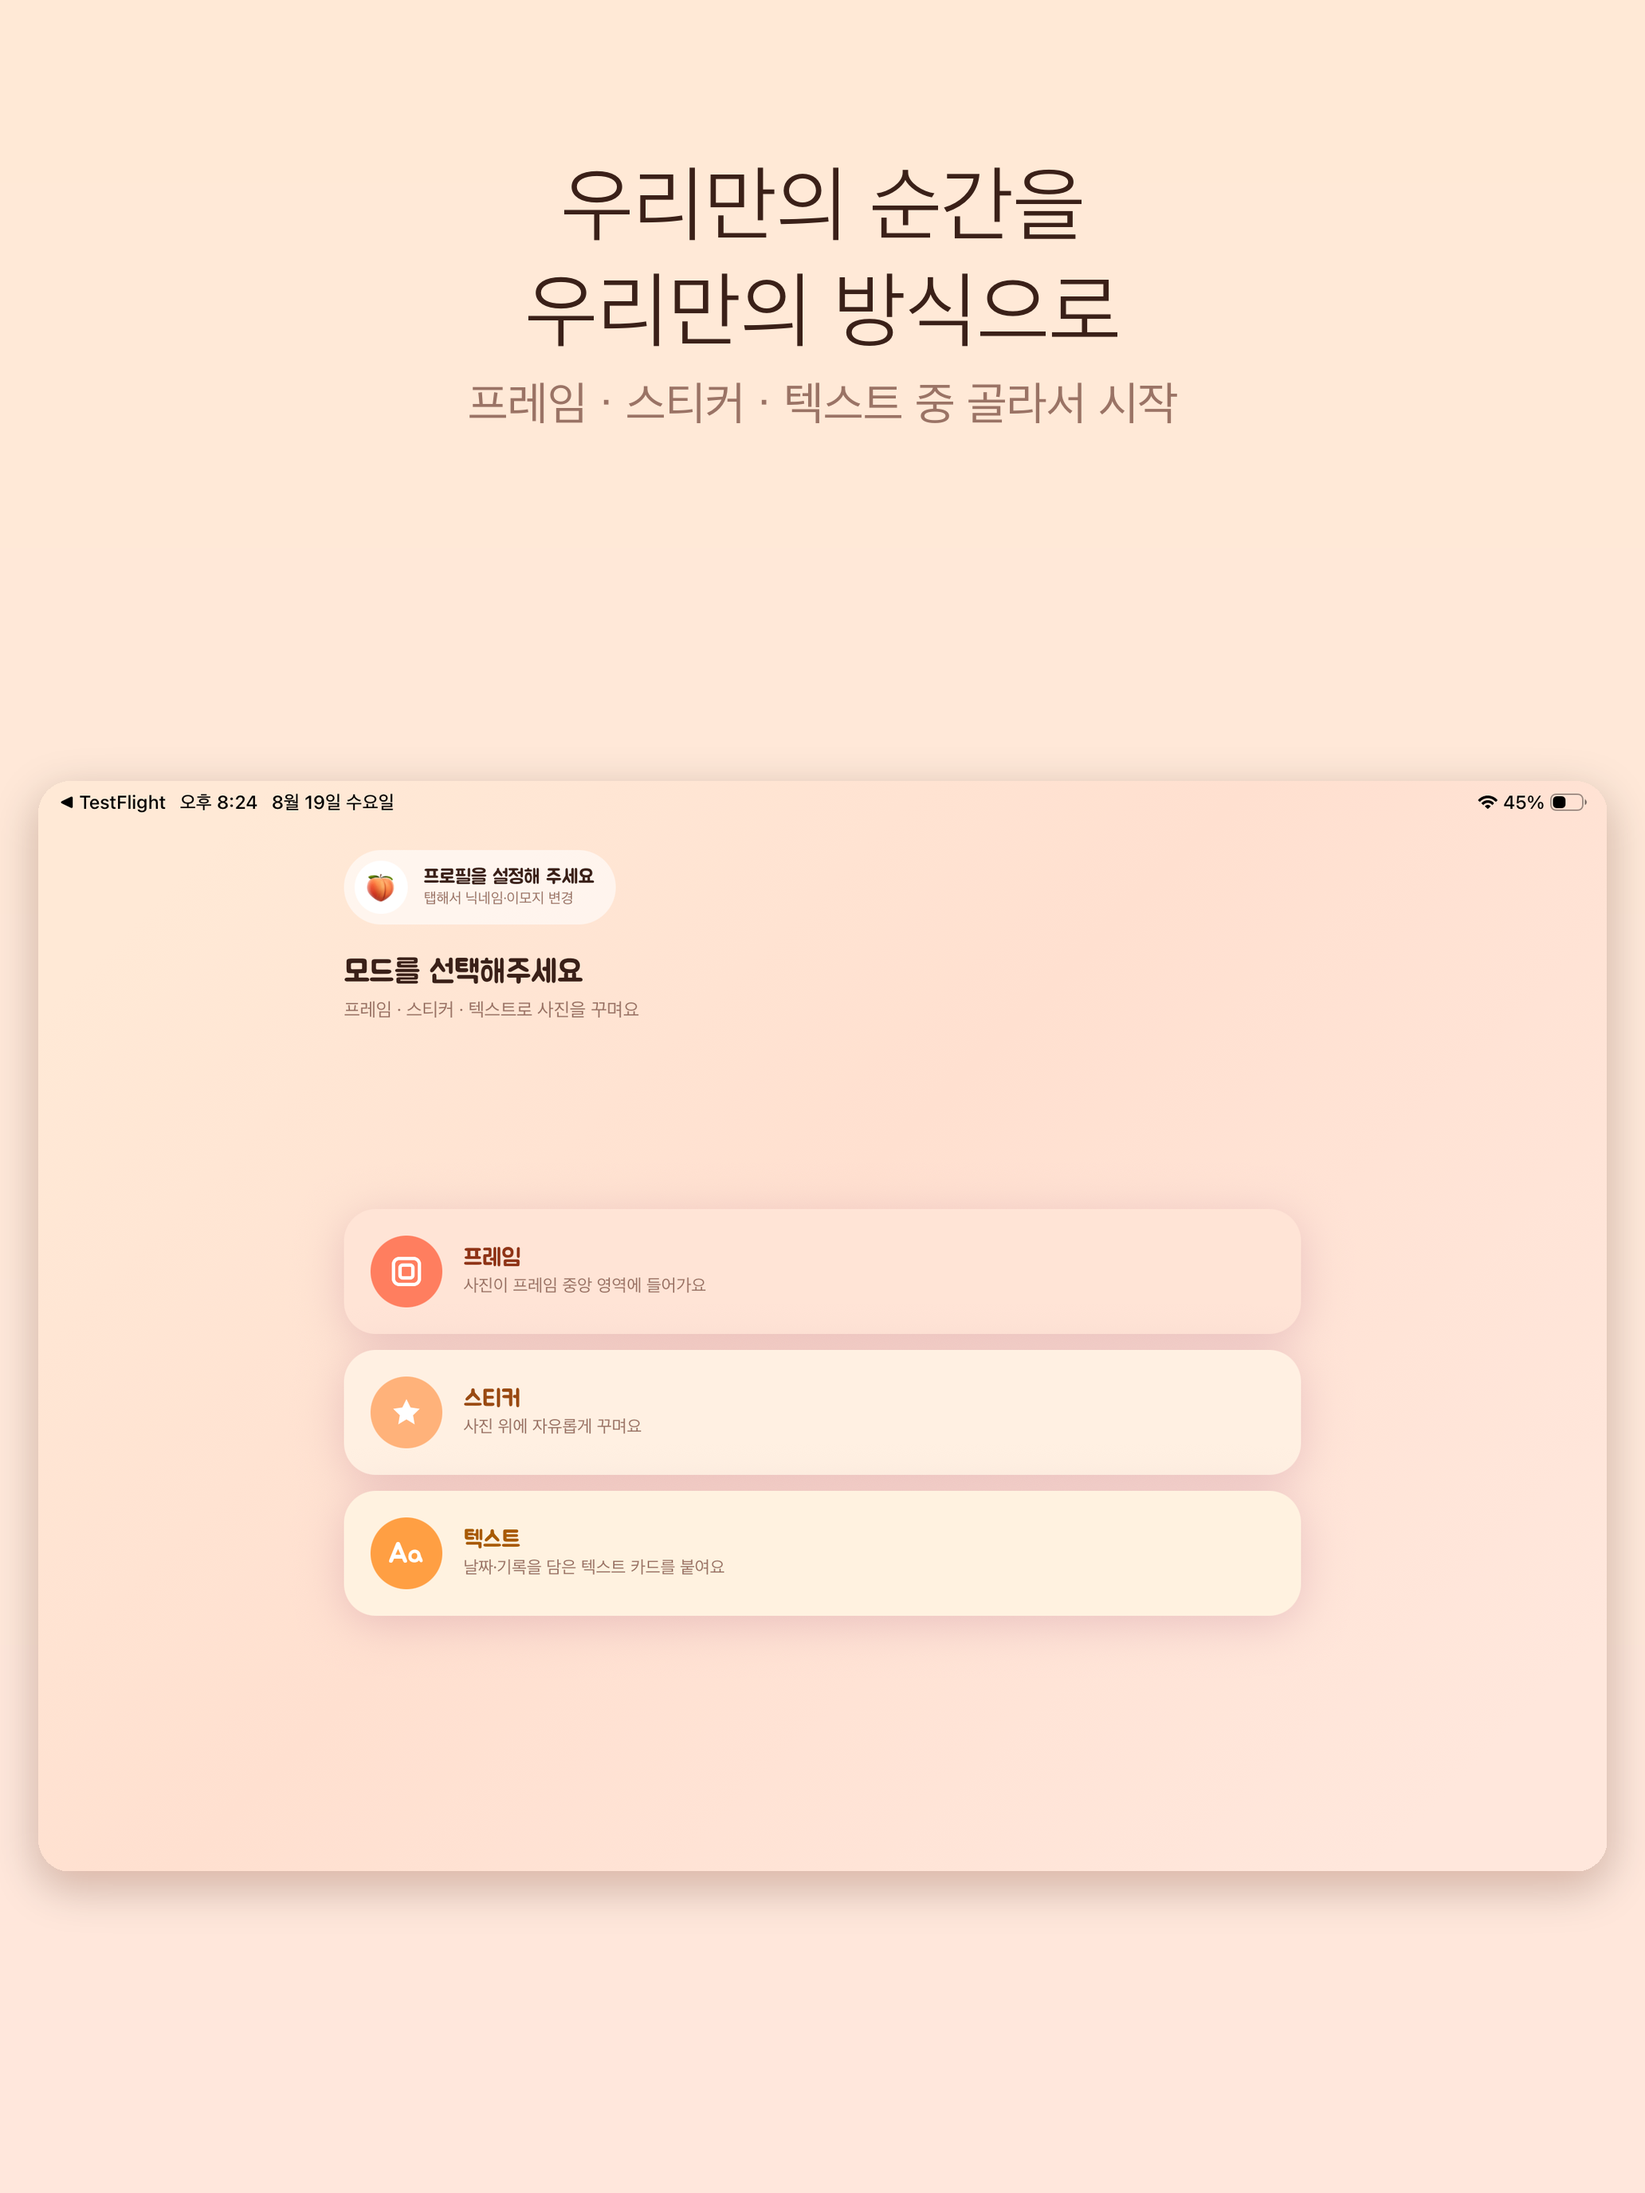
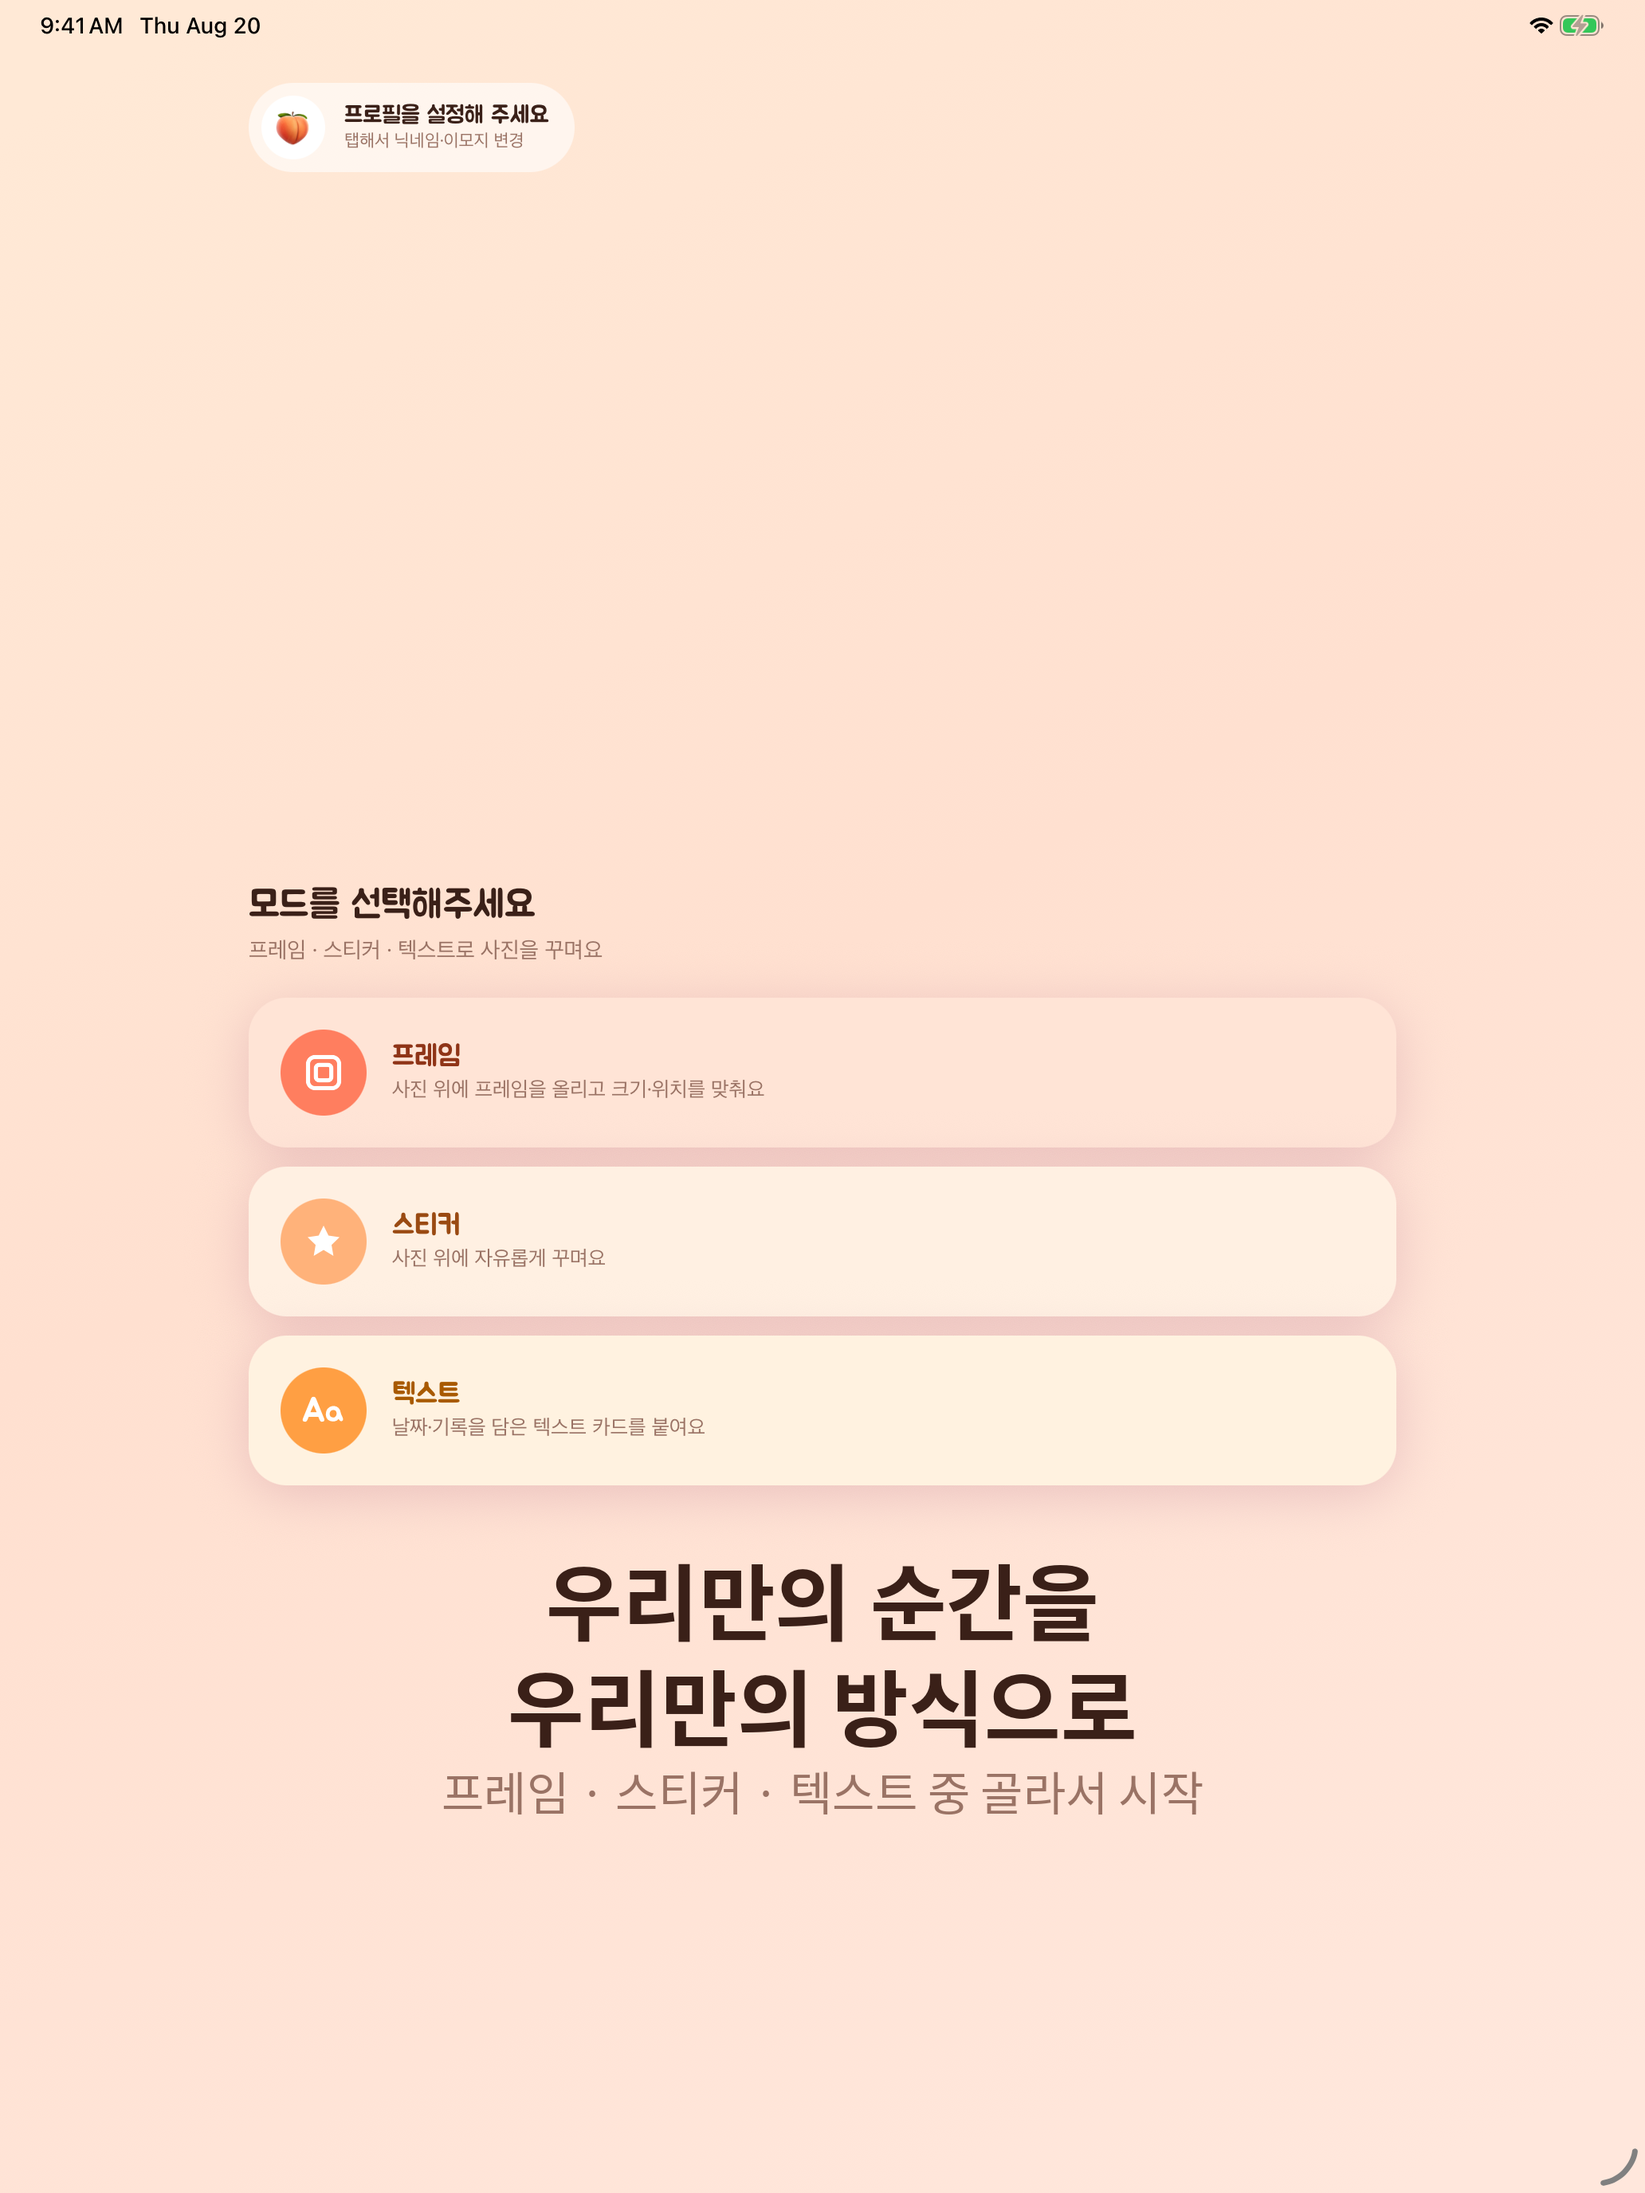
store: App Store 스크린샷 5장 체계로 확장 (iPhone 실기기 · iPad 시뮬레이터)
캡션을 4장에서 5장으로 늘리고 텍스트 카드 화면을 추가한다.
  01-home → 02-select → 03-edit → 04-text(신설) → 05-result
기존 04-result 는 05-result 로 밀었다.

iPhone 은 실기기 캡처(IMG_3613~3617), iPad 는 시뮬레이터 캡처를 쓴다.

compose-store-screenshots.py 는 세 가지를 고친다.

1. 한글 폰트를 macOS 밖에서도 찾는다. 후보가 Apple SD Gothic Neo 뿐이라
   리눅스에서 합성하면 기본 폰트로 떨어져 캡션이 통째로 깨졌다.
   Noto Sans CJK KR 을 후보에 넣고 .ttc 얼굴 인덱스를 명시한다.

2. 캡처의 색공간을 sRGB 로 맞춘다. 아이폰 실기기 캡처에는 Display P3
   프로파일이 박혀 있는데, 무시한 채 쓰면 같은 숫자를 sRGB 로 읽어
   분홍·주황 스티커가 과포화된다. App Store 는 sRGB 를 기대한다.

3. overlay 레이아웃을 더한다. iPad 캡처는 이미 2064x2752 — 규격과 같아서
   기존 inset 으로 넣으면 캡션 자리를 만드느라 화면이 76% 로 줄고 앱
   글씨가 읽히지 않았다. 원본이 규격 크기면 화면을 1:1 로 두고 캡션만
   얹는다. 웨피캠 iPad 레이아웃이 5장 모두 비워 두는 y 1900~2420 띠를
   쓰고, 그 띠가 실제로 비어 있는지 확인한 뒤 그린다.

diff --git a/scripts/compose-store-screenshots.py b/scripts/compose-store-screenshots.py
@@ -46,9 +46,11 @@ from dataclasses import dataclass
 from pathlib import Path
 
 try:
-    from PIL import Image, ImageDraw, ImageFilter, ImageFont
+    from PIL import Image, ImageCms, ImageDraw, ImageFilter, ImageFont
 except ImportError:
     sys.exit("Pillow 가 필요합니다:  python3 -m pip install pillow")
+
+import io
 
 ROOT = Path(__file__).resolve().parent.parent
 
@@ -78,34 +80,76 @@ class Spec:
     side_pad: int
     radius: int
     palette: str
+    # 원본이 이미 규격 크기일 때 캡션을 얹을 y 좌표. None 이면 overlay 를 쓰지 않는다.
+    overlay_caption_y: int | None = None
 
 
 SPECS = {
     "iphone": Spec("iphone", 1320, 2868, "APP_IPHONE_67",
                    caption_size=76, sub_size=44, top_pad=150, gap=64, side_pad=96,
                    radius=56, palette="purple"),
-    # iPad 원본은 가로(landscape) 로 찍혔는데 규격 캔버스는 세로다. 좌우 여백을 줄여
-    # 화면을 최대한 크게 넣고, 남는 세로 공간은 compose() 가 위아래로 나눠 준다.
+    # iPad 캡처는 이미 2064x2752 (규격과 동일) 라 inset 으로 넣으면 76% 로 줄어
+    # 앱 글씨가 읽히지 않는다. 대신 overlay 로 화면을 1:1 로 두고, 웨피캠 iPad
+    # 레이아웃이 5장 모두 비워 두는 y 1900~2420 띠에 캡션을 얹는다.
     "ipad": Spec("ipad", 2064, 2752, "APP_IPAD_PRO_3GEN_129",
                  caption_size=104, sub_size=58, top_pad=200, gap=72, side_pad=48,
-                 radius=40, palette="peach"),
+                 radius=40, palette="peach", overlay_caption_y=1930),
 }
+
+
+# 한글이 나오는 폰트. (경로, regular index, bold index) — .ttc 는 얼굴이 여럿이라
+# 인덱스를 지정해야 한다. macOS 는 Apple SD Gothic Neo, 리눅스/CI 는 Noto Sans CJK KR.
+# 어느 장비에서 합성해도 같은 결과가 나오도록 두 계열을 모두 둔다.
+FONT_CANDIDATES = [
+    ("/System/Library/Fonts/AppleSDGothicNeo.ttc", 0, 8),
+    ("/System/Library/Fonts/Supplemental/AppleGothic.ttf", 0, 0),
+    ("/Library/Fonts/AppleGothic.ttf", 0, 0),
+    ("/usr/share/fonts/opentype/noto/NotoSansCJK-Bold.ttc", 1, 1),
+    ("/usr/share/fonts/opentype/noto/NotoSansCJK-Regular.ttc", 1, 1),
+]
 
 
 def load_font(size: int, bold: bool = False) -> ImageFont.FreeTypeFont:
     """한글이 나오는 시스템 폰트를 찾는다. 없으면 기본 폰트로 떨어진다."""
-    candidates = [
-        "/System/Library/Fonts/AppleSDGothicNeo.ttc",
-        "/System/Library/Fonts/Supplemental/AppleGothic.ttf",
-        "/Library/Fonts/AppleGothic.ttf",
-    ]
-    for path in candidates:
+    # Bold 를 요청했으면 Bold 파일을 먼저, Regular 면 Regular 파일을 먼저 본다.
+    ordered = sorted(
+        FONT_CANDIDATES,
+        key=lambda c: ("Bold" in c[0]) != bold,
+    )
+    for path, reg_idx, bold_idx in ordered:
         if Path(path).exists():
             try:
-                return ImageFont.truetype(path, size, index=(8 if bold and path.endswith(".ttc") else 0))
+                return ImageFont.truetype(path, size, index=(bold_idx if bold else reg_idx))
             except OSError:
                 continue
+    print("  ! 한글 폰트를 찾지 못해 기본 폰트로 떨어집니다 — 캡션이 깨질 수 있습니다.")
     return ImageFont.load_default()
+
+
+SRGB = ImageCms.createProfile("sRGB")
+
+
+def open_srgb(path: Path) -> Image.Image:
+    """캡처를 sRGB RGB 로 연다.
+
+    아이폰 실기기 캡처에는 Display P3 프로파일이 박혀 있다. 프로파일을 무시한 채
+    그대로 쓰면 같은 숫자를 sRGB 로 읽어 색이 과포화된다(특히 분홍·주황 스티커).
+    App Store 는 sRGB 를 기대하므로 여기서 한 번 변환해 둔다.
+    """
+    img = Image.open(path)
+    icc = img.info.get("icc_profile")
+    if icc:
+        try:
+            src = ImageCms.ImageCmsProfile(io.BytesIO(icc))
+            desc = ImageCms.getProfileDescription(src).strip()
+            if "sRGB" not in desc:
+                img = ImageCms.profileToProfile(
+                    img.convert("RGB"), src, SRGB, outputMode="RGB", renderingIntent=0
+                )
+                print(f"    · 색공간 변환: {desc} → sRGB")
+        except (ImageCms.PyCMSError, OSError) as e:
+            print(f"    ! ICC 변환 실패({e}) — 원본 그대로 사용합니다.")
+    return img.convert("RGB")
 
 
 def gradient_background(spec: Spec) -> Image.Image:
@@ -147,16 +191,12 @@ def rounded(img: Image.Image, radius: int) -> Image.Image:
     return out
 
 
-def compose(src: Path, dest: Path, spec: Spec, caption: str, sub: str, shadow: bool) -> None:
-    pal = PALETTES[spec.palette]
-    canvas = gradient_background(spec).convert("RGBA")
-    draw = ImageDraw.Draw(canvas)
-
+def draw_caption_block(draw, spec: Spec, pal: dict, caption: str, sub: str, y: int) -> int:
+    """캡션 + 서브를 가운데 정렬로 그리고, 블록이 끝난 y 를 돌려준다."""
     title_font = load_font(spec.caption_size, bold=True)
     sub_font = load_font(spec.sub_size)
     text_width = spec.width - spec.side_pad * 2
 
-    y = spec.top_pad
     for line in wrap(draw, caption, title_font, text_width):
         w = draw.textlength(line, font=title_font)
         draw.text(((spec.width - w) / 2, y), line, font=title_font, fill=pal["text_main"])
@@ -168,13 +208,50 @@ def compose(src: Path, dest: Path, spec: Spec, caption: str, sub: str, shadow: b
             w = draw.textlength(line, font=sub_font)
             draw.text(((spec.width - w) / 2, y), line, font=sub_font, fill=pal["text_sub"])
             y += int(spec.sub_size * 1.35)
+    return y
+
+
+def region_is_flat(img: Image.Image, top: int, bottom: int, tol: int = 14) -> bool:
+    """그 띠가 앱 배경만 있는 빈 영역인지 — 캡션을 얹어도 UI 를 가리지 않는지 본다."""
+    band = img.crop((0, max(0, top), img.width, min(img.height, bottom)))
+    return all(mx - mn <= tol for mn, mx in band.getextrema())
+
+
+def compose_overlay(src: Path, dest: Path, spec: Spec, caption: str, sub: str) -> None:
+    """원본이 이미 규격 크기일 때: 축소하지 않고 캡션만 빈 띠에 얹는다.
+
+    inset 으로 넣으면 화면이 76% 로 줄어 앱 글씨가 읽히지 않는다. overlay 는 UI 를
+    1:1 로 유지하므로 태블릿 스크린샷에서 훨씬 잘 읽힌다.
+    """
+    pal = PALETTES[spec.palette]
+    canvas = open_srgb(src)
+    draw = ImageDraw.Draw(canvas)
+
+    y0 = spec.overlay_caption_y
+    end = draw_caption_block(draw, spec, pal, caption, sub, y0)
+    if not region_is_flat(Image.open(src).convert("RGB"), y0 - 24, end + 24):
+        print(f"    ! y {y0}~{end} 가 빈 띠가 아닙니다 — 캡션이 UI 를 가릴 수 있습니다.")
+
+    dest.parent.mkdir(parents=True, exist_ok=True)
+    canvas.save(dest, "PNG", optimize=True)
+    out = Image.open(dest)
+    assert out.size == (spec.width, spec.height), f"규격 불일치: {out.size}"
+    print(f"  ✓ {dest.relative_to(ROOT)}  {out.size[0]}x{out.size[1]}  (overlay, 화면 1:1)")
+
+
+def compose(src: Path, dest: Path, spec: Spec, caption: str, sub: str, shadow: bool) -> None:
+    pal = PALETTES[spec.palette]
+    canvas = gradient_background(spec).convert("RGBA")
+    draw = ImageDraw.Draw(canvas)
+
+    y = draw_caption_block(draw, spec, pal, caption, sub, spec.top_pad)
 
     # 기기 화면: 남은 영역에 비율 유지로 최대한 크게
     band_top = y + spec.gap
     bottom_pad = spec.side_pad // 2 if spec.side_pad > 96 else 48
     avail_w = spec.width - spec.side_pad * 2
     avail_h = spec.height - band_top - bottom_pad
-    shot = Image.open(src).convert("RGB")
+    shot = open_srgb(src)
     scale = min(avail_w / shot.width, avail_h / shot.height)
     size = (max(1, round(shot.width * scale)), max(1, round(shot.height * scale)))
     shot = rounded(shot.resize(size, Image.LANCZOS), spec.radius)
@@ -206,6 +283,8 @@ def main() -> int:
     ap.add_argument("--in", dest="src", default="store/screenshots/raw")
     ap.add_argument("--out", dest="out", default="store/screenshots/composed")
     ap.add_argument("--captions", default="store/screenshot-captions.json")
+    ap.add_argument("--layout", default="auto", choices=["auto", "inset", "overlay"],
+                    help="auto: 원본이 규격 크기면 overlay, 아니면 inset")
     ap.add_argument("--no-shadow", action="store_true")
     ap.add_argument("--list", action="store_true")
     ap.add_argument("--dry-run", action="store_true")
@@ -234,10 +313,21 @@ def main() -> int:
                 missing.append(str(src.relative_to(ROOT)))
                 print(f"  · {c['slug']}: 원본 없음 — 건너뜀")
                 continue
+            # 원본이 이미 규격 크기면 축소 없이 캡션만 얹는다(overlay).
+            use_overlay = (
+                args.layout == "overlay"
+                or (args.layout == "auto"
+                    and spec.overlay_caption_y is not None
+                    and Image.open(src).size == (spec.width, spec.height))
+            )
             if args.dry_run:
-                print(f"  [dry-run] {src.relative_to(ROOT)} → {dest.relative_to(ROOT)}")
+                how = "overlay" if use_overlay else "inset"
+                print(f"  [dry-run] {src.relative_to(ROOT)} → {dest.relative_to(ROOT)}  ({how})")
                 continue
-            compose(src, dest, spec, c["caption"], c.get("sub", ""), not args.no_shadow)
+            if use_overlay:
+                compose_overlay(src, dest, spec, c["caption"], c.get("sub", ""))
+            else:
+                compose(src, dest, spec, c["caption"], c.get("sub", ""), not args.no_shadow)
 
     if missing:
         print("\n아직 없는 원본:")
